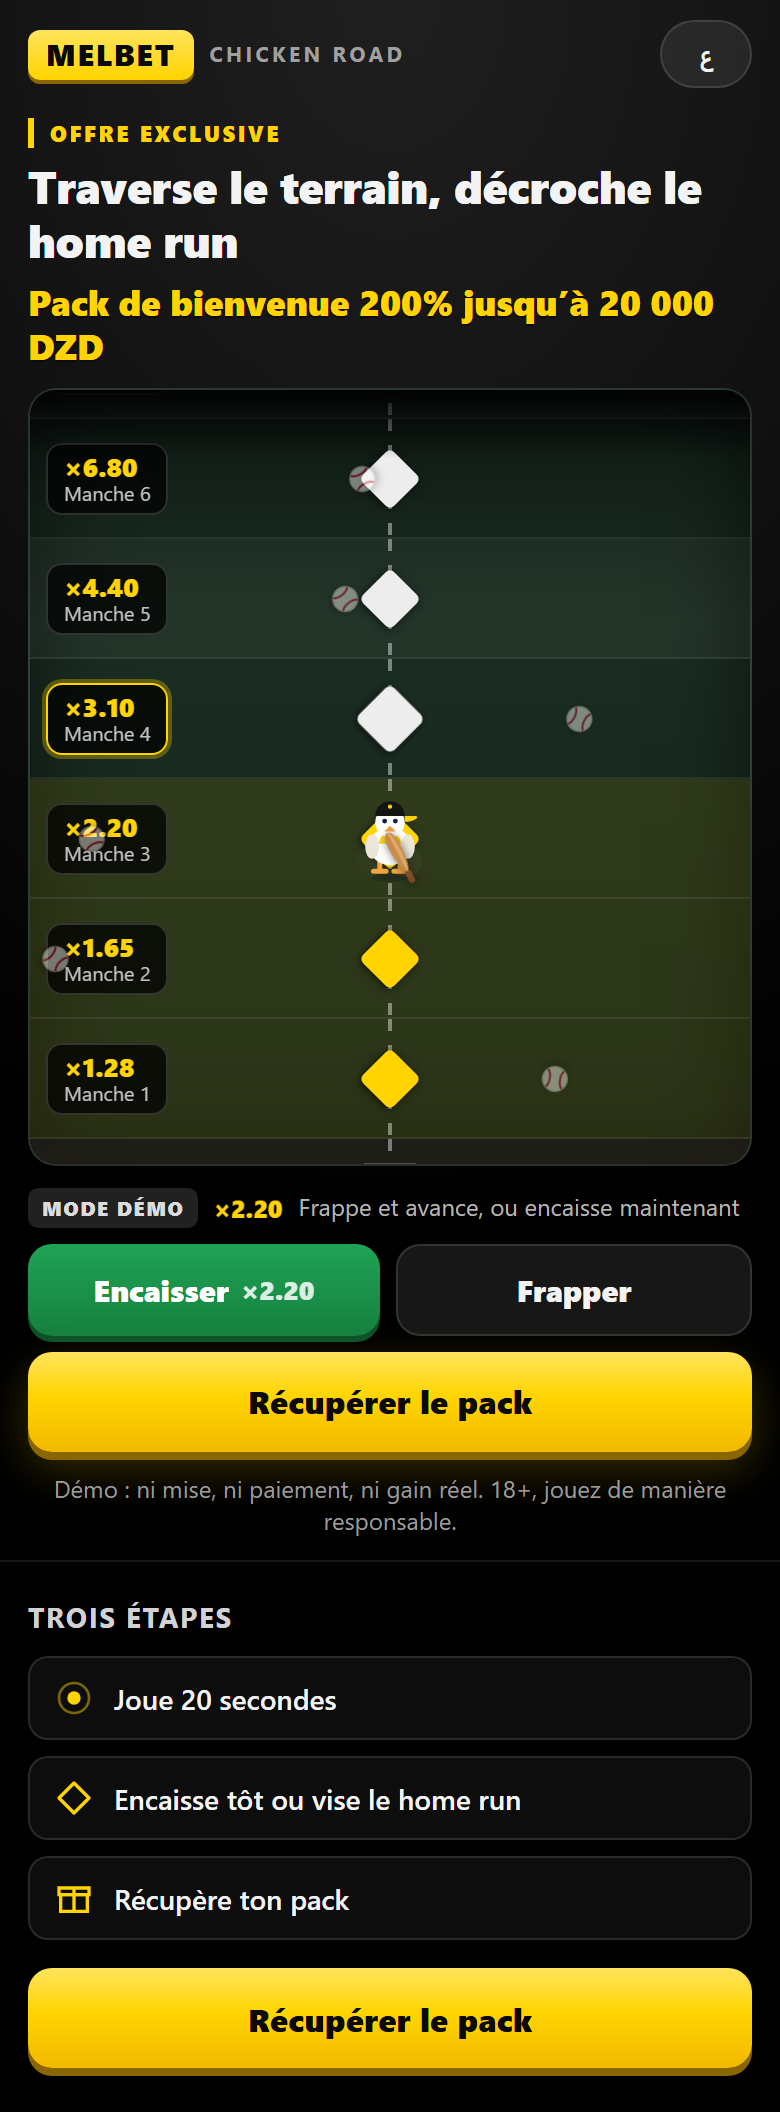
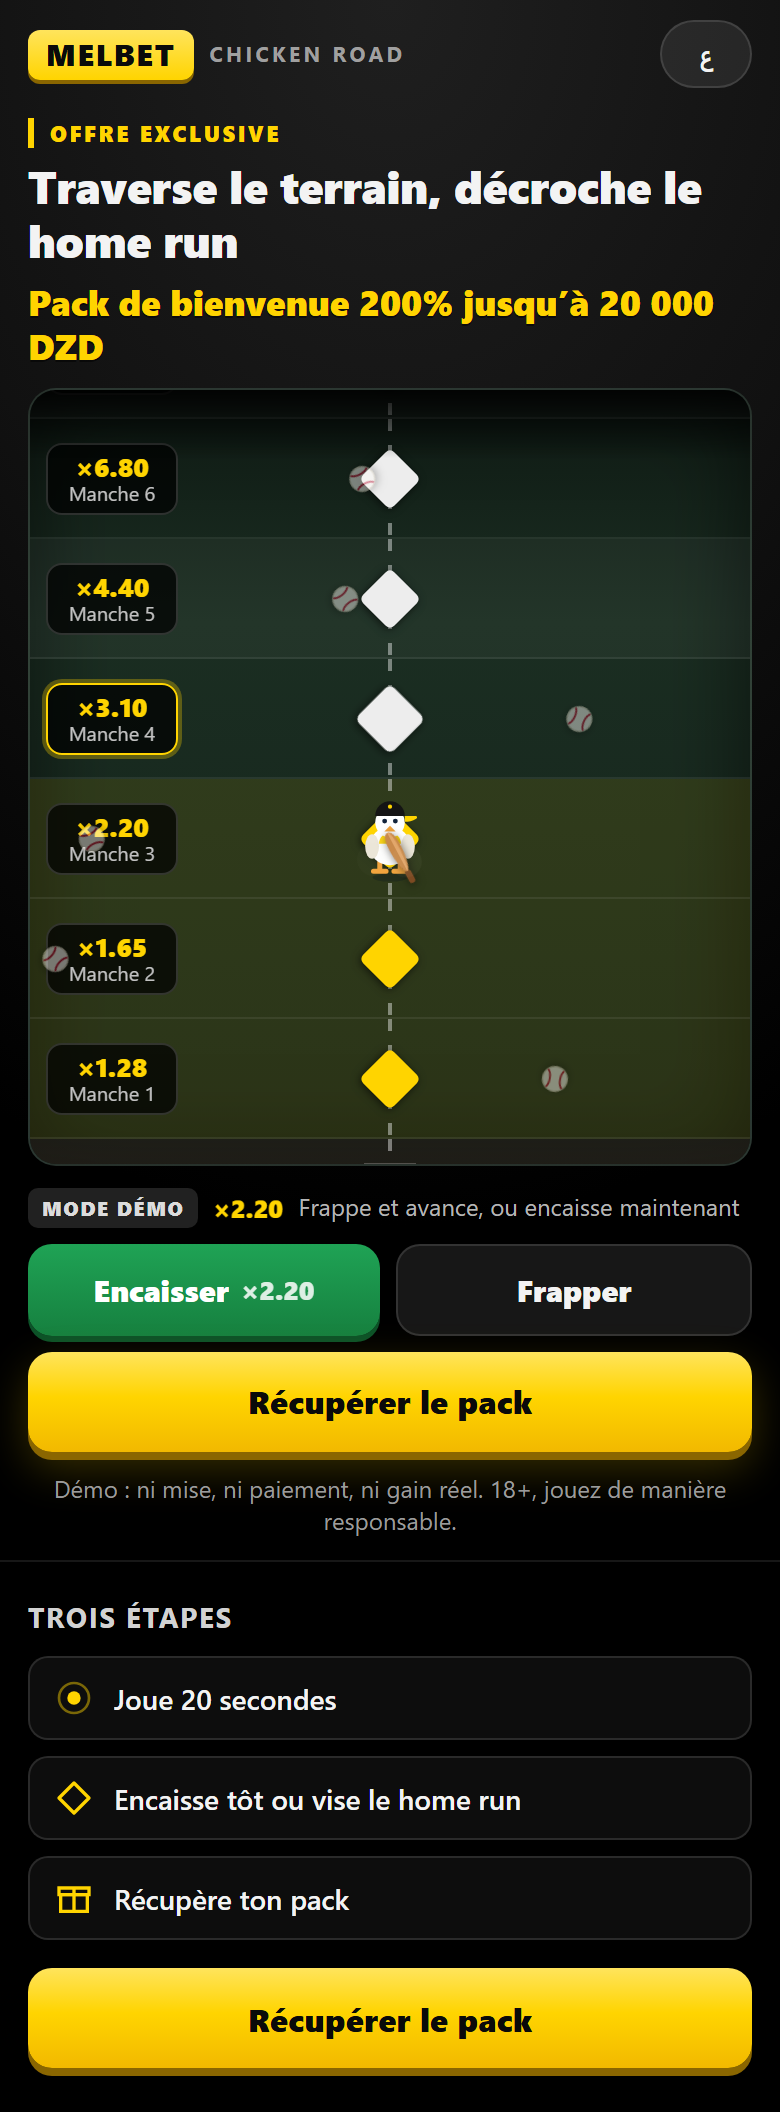
Выровнял ширину чипов с коэффициентами

Changed region(s): [[0.0923, 0.2188, 0.2462, 0.4062], [0.0923, 0.5, 0.2462, 0.5312], [0.0923, 0.4375, 0.2462, 0.4688]]

diff --git a/assets/styles.css b/assets/styles.css
@@ -101,11 +101,12 @@ body{
   background:#EDEDED; clip-path:polygon(0 0,100% 0,100% 55%,50% 100%,0 55%);
 }
 .chip{
-  position:absolute; inset-inline-start:8px; display:flex; flex-direction:column; line-height:1.1;
+  position:absolute; inset-inline-start:8px; display:flex; flex-direction:column; align-items:center;
+  min-width:66px; line-height:1.1;
   background:rgba(0,0,0,.72); border:1px solid rgba(255,255,255,.16);
   border-radius:8px; padding:4px 8px; transition:border-color .2s,box-shadow .2s;
 }
-.chip b{font-size:13px;font-weight:800;color:var(--yellow);direction:ltr;unicode-bidi:isolate}
+.chip b{font-size:13px;font-weight:800;color:var(--yellow);direction:ltr;unicode-bidi:isolate;font-variant-numeric:tabular-nums}
 .chip i{font-size:10px;font-style:normal;color:#C2C2C2}
 .lane.is-next .chip{border-color:var(--yellow);box-shadow:0 0 0 2px rgba(255,212,0,.3)}
 .lane.is-next .diamond{animation:target 1.1s ease-in-out infinite}

diff --git a/dist/artifact.html b/dist/artifact.html
@@ -104,11 +104,12 @@ body{
   background:#EDEDED; clip-path:polygon(0 0,100% 0,100% 55%,50% 100%,0 55%);
 }
 .chip{
-  position:absolute; inset-inline-start:8px; display:flex; flex-direction:column; line-height:1.1;
+  position:absolute; inset-inline-start:8px; display:flex; flex-direction:column; align-items:center;
+  min-width:66px; line-height:1.1;
   background:rgba(0,0,0,.72); border:1px solid rgba(255,255,255,.16);
   border-radius:8px; padding:4px 8px; transition:border-color .2s,box-shadow .2s;
 }
-.chip b{font-size:13px;font-weight:800;color:var(--yellow);direction:ltr;unicode-bidi:isolate}
+.chip b{font-size:13px;font-weight:800;color:var(--yellow);direction:ltr;unicode-bidi:isolate;font-variant-numeric:tabular-nums}
 .chip i{font-size:10px;font-style:normal;color:#C2C2C2}
 .lane.is-next .chip{border-color:var(--yellow);box-shadow:0 0 0 2px rgba(255,212,0,.3)}
 .lane.is-next .diamond{animation:target 1.1s ease-in-out infinite}

diff --git a/dist/index.html b/dist/index.html
@@ -112,11 +112,12 @@ body{
   background:#EDEDED; clip-path:polygon(0 0,100% 0,100% 55%,50% 100%,0 55%);
 }
 .chip{
-  position:absolute; inset-inline-start:8px; display:flex; flex-direction:column; line-height:1.1;
+  position:absolute; inset-inline-start:8px; display:flex; flex-direction:column; align-items:center;
+  min-width:66px; line-height:1.1;
   background:rgba(0,0,0,.72); border:1px solid rgba(255,255,255,.16);
   border-radius:8px; padding:4px 8px; transition:border-color .2s,box-shadow .2s;
 }
-.chip b{font-size:13px;font-weight:800;color:var(--yellow);direction:ltr;unicode-bidi:isolate}
+.chip b{font-size:13px;font-weight:800;color:var(--yellow);direction:ltr;unicode-bidi:isolate;font-variant-numeric:tabular-nums}
 .chip i{font-size:10px;font-style:normal;color:#C2C2C2}
 .lane.is-next .chip{border-color:var(--yellow);box-shadow:0 0 0 2px rgba(255,212,0,.3)}
 .lane.is-next .diamond{animation:target 1.1s ease-in-out infinite}
